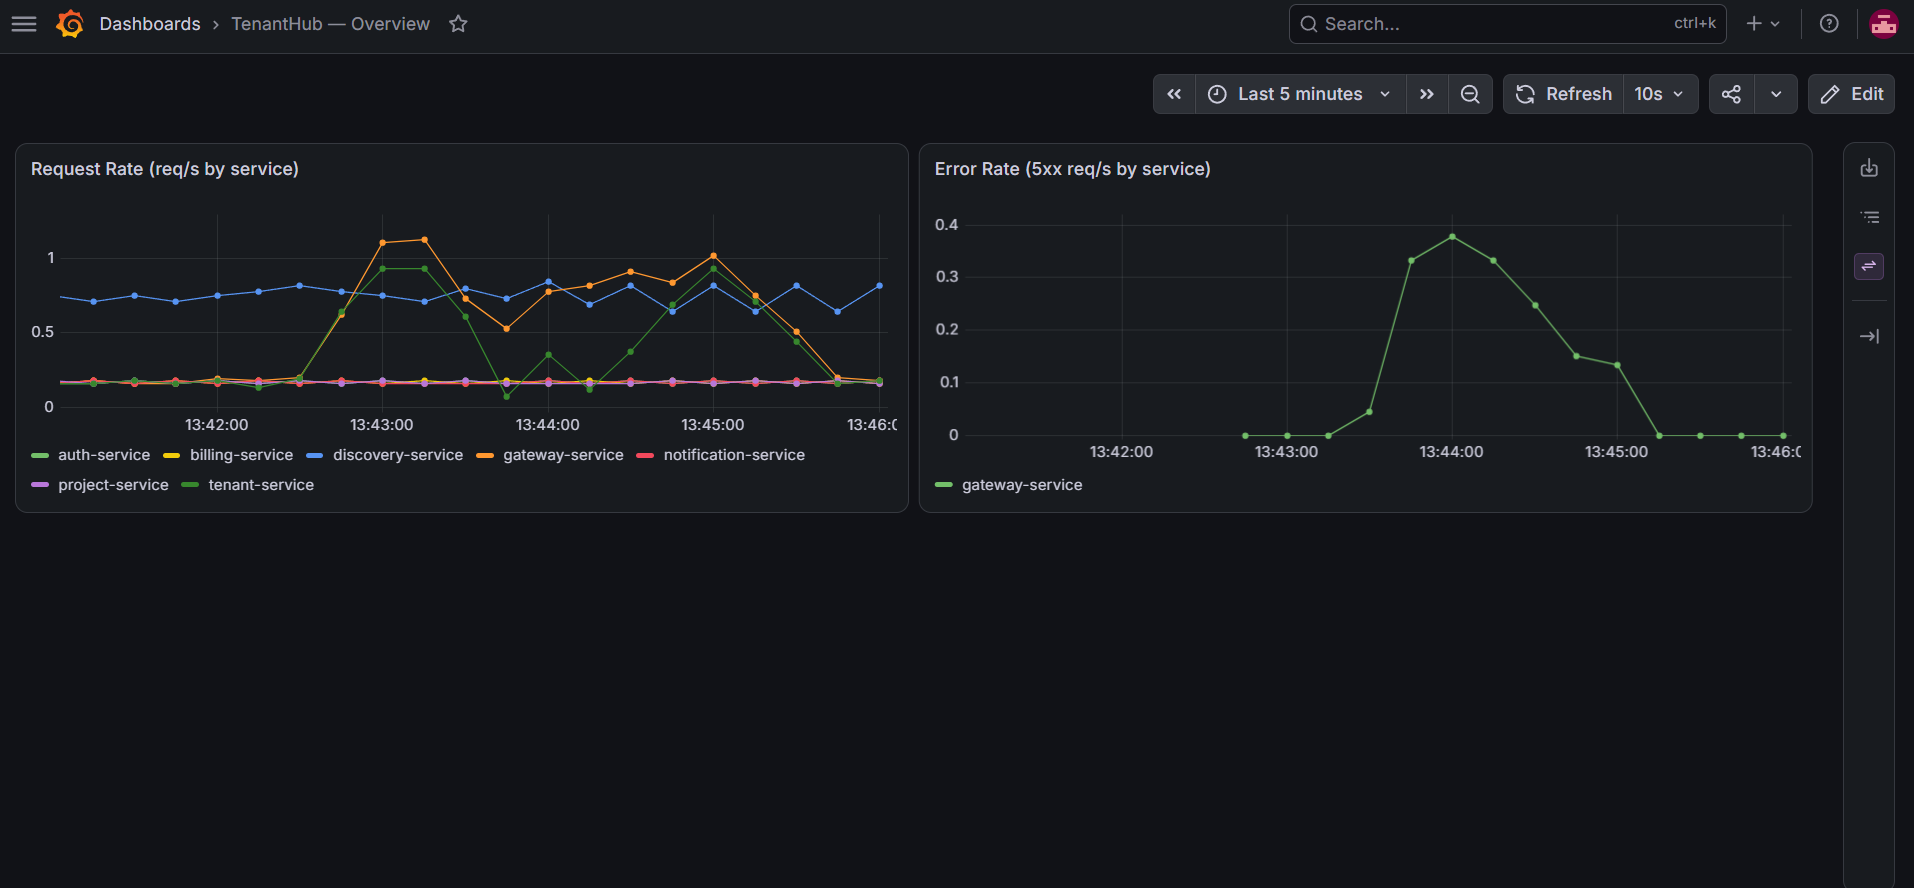
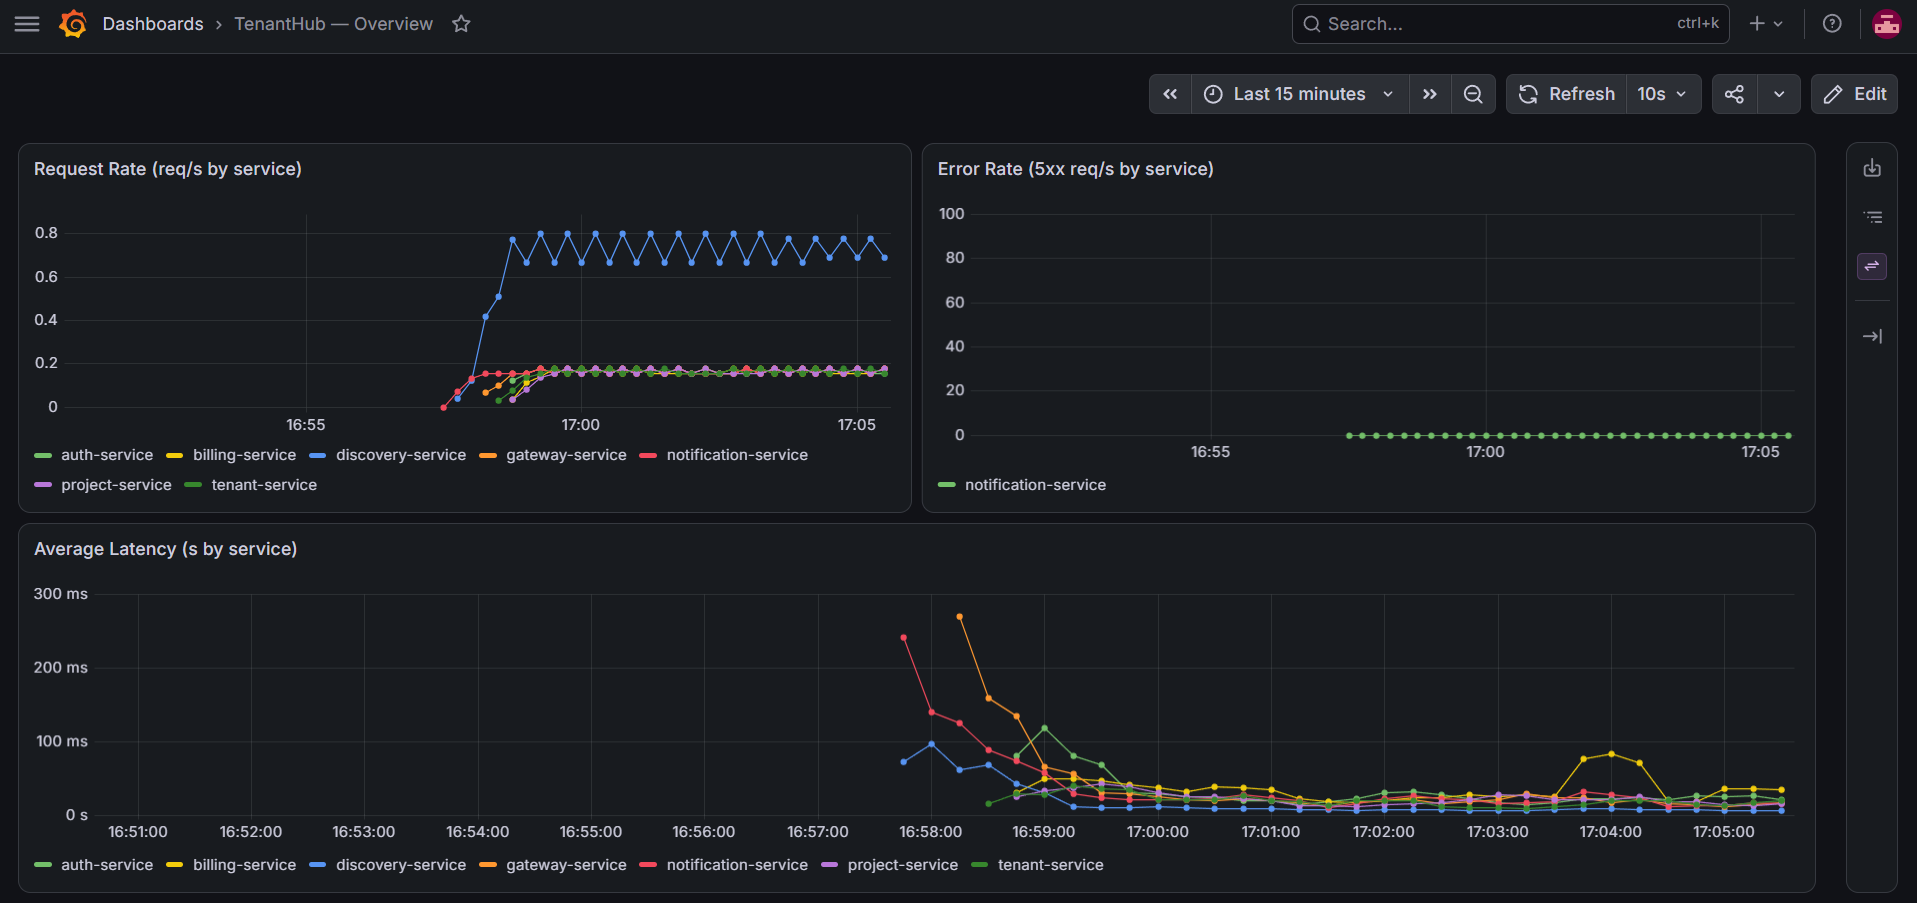
feat(observability): complete RED method dashboard with latency panel and sync k8s config

diff --git a/docs/prometheus-grafana.md b/docs/prometheus-grafana.md
@@ -47,12 +47,19 @@ scraped:
 
 ![Prometheus target health](../screenshots/Grafana_prometheus/prometheus_target_health.png)
 
-## The dashboard: Request Rate and Error Rate
+## The Dashboards
 
-Two panels, both grouped by service (`job` label):
+### 1. TenantHub — Overview (RED Method)
 
-- **Request Rate** — `sum by (job) (rate(http_server_requests_seconds_count[1m]))`
-- **Error Rate** — same query filtered to `status=~"5.."` (5xx only)
+Three panels implementing the industry-standard **RED Method** (**R**ate, **E**rror, **D**uration/Latency), grouped by service (`job` label):
+
+- **Request Rate (Rate)** — `sum by (job) (rate(http_server_requests_seconds_count[1m]))`
+- **Error Rate (Errors)** — same query filtered to `status=~"5.."` (5xx only)
+- **Average Latency (Duration)** — `sum by (job) (rate(http_server_requests_seconds_sum[1m])) / sum by (job) (rate(http_server_requests_seconds_count[1m]))`
+
+### 2. TenantHub — Kafka
+
+Provides broker throughput and real-time per-consumer-group/topic lag metrics (detailed in [`docs/kafka-mailpit.md`](kafka-mailpit.md)).
 
 ```mermaid
 sequenceDiagram
